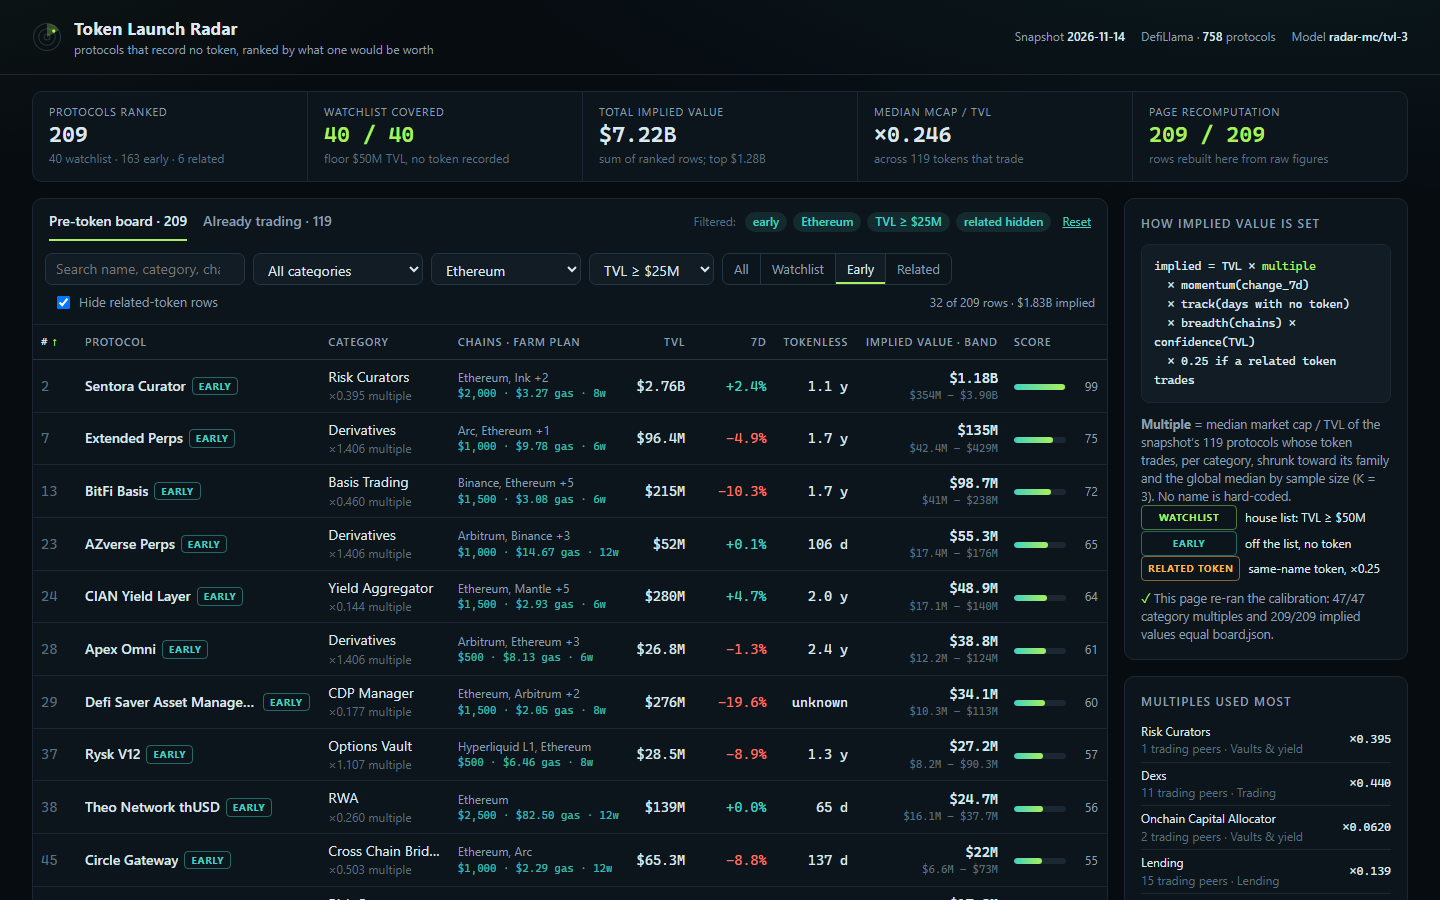
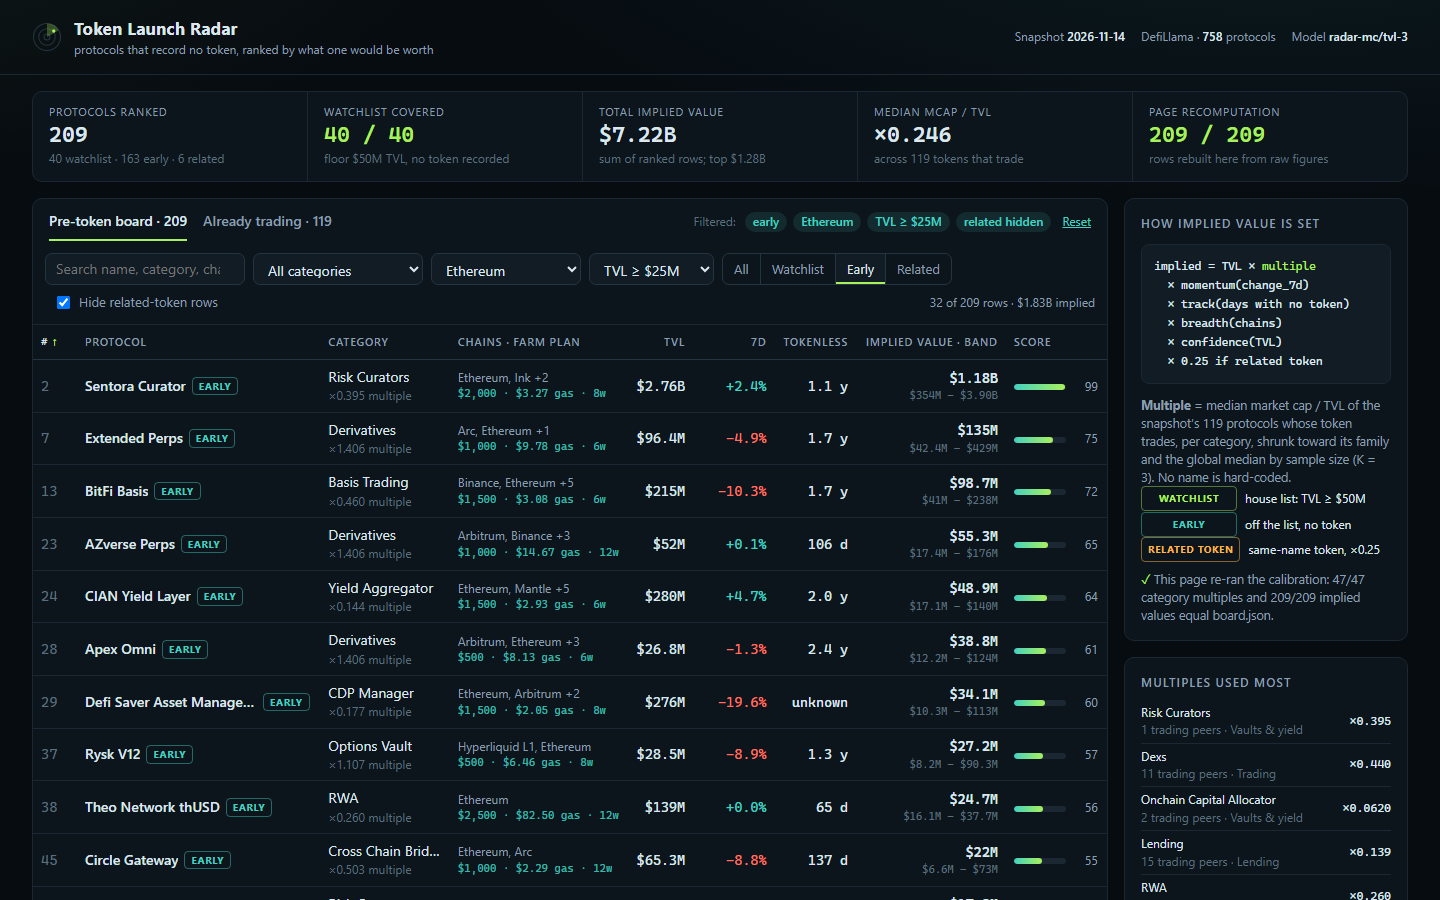
Formula box one factor per line; final screenshots

Changed region(s): [[0.7812, 0.3733, 0.9688, 0.7156], [0.7812, 0.7467, 0.9062, 0.9956], [0.9375, 0.7778, 0.9688, 1.0]]

diff --git a/dashboard/app.js b/dashboard/app.js
@@ -140,7 +140,7 @@
     var top = Object.keys(cats).sort(function (a, b) { return cats[b] - cats[a] || (a < b ? -1 : 1); }).slice(0, 7);
     return '<aside class="rail">' +
       '<div class="panel pad"><h3>How implied value is set</h3>' +
-      '<div class="formula">implied = TVL × <em>multiple</em><br>  × momentum(change_7d)<br>  × track(days with no token)<br>  × breadth(chains) × confidence(TVL)<br>  × ' + K.related_haircut + ' if a related token trades</div>' +
+      '<div class="formula">implied = TVL × <em>multiple</em><br>  × momentum(change_7d)<br>  × track(days with no token)<br>  × breadth(chains)<br>  × confidence(TVL)<br>  × ' + K.related_haircut + ' if related token</div>' +
       '<p><b>Multiple</b> = median market cap / TVL of the snapshot’s ' + D.peers.length + ' protocols whose token trades, per category, shrunk toward its family and the global median by sample size (K = ' + K.shrink + '). No name is hard-coded.</p>' +
       '<div class="legend">' + tag('watchlist') + '<span>house list: TVL ≥ ' + usd(D.floor_usd) + '</span>' + tag('early') + '<span>off the list, no token</span>' + tag('related') + '<span>same-name token, ×' + K.related_haircut + '</span></div>' +
       '<p class="check"><span class="ok">✓</span> This page re-ran the calibration: ' + CAT_OK + '/' + catList.length + ' category multiples and ' + MATCH + '/' + D.rows.length + ' implied values equal board.json.</p></div>' +
